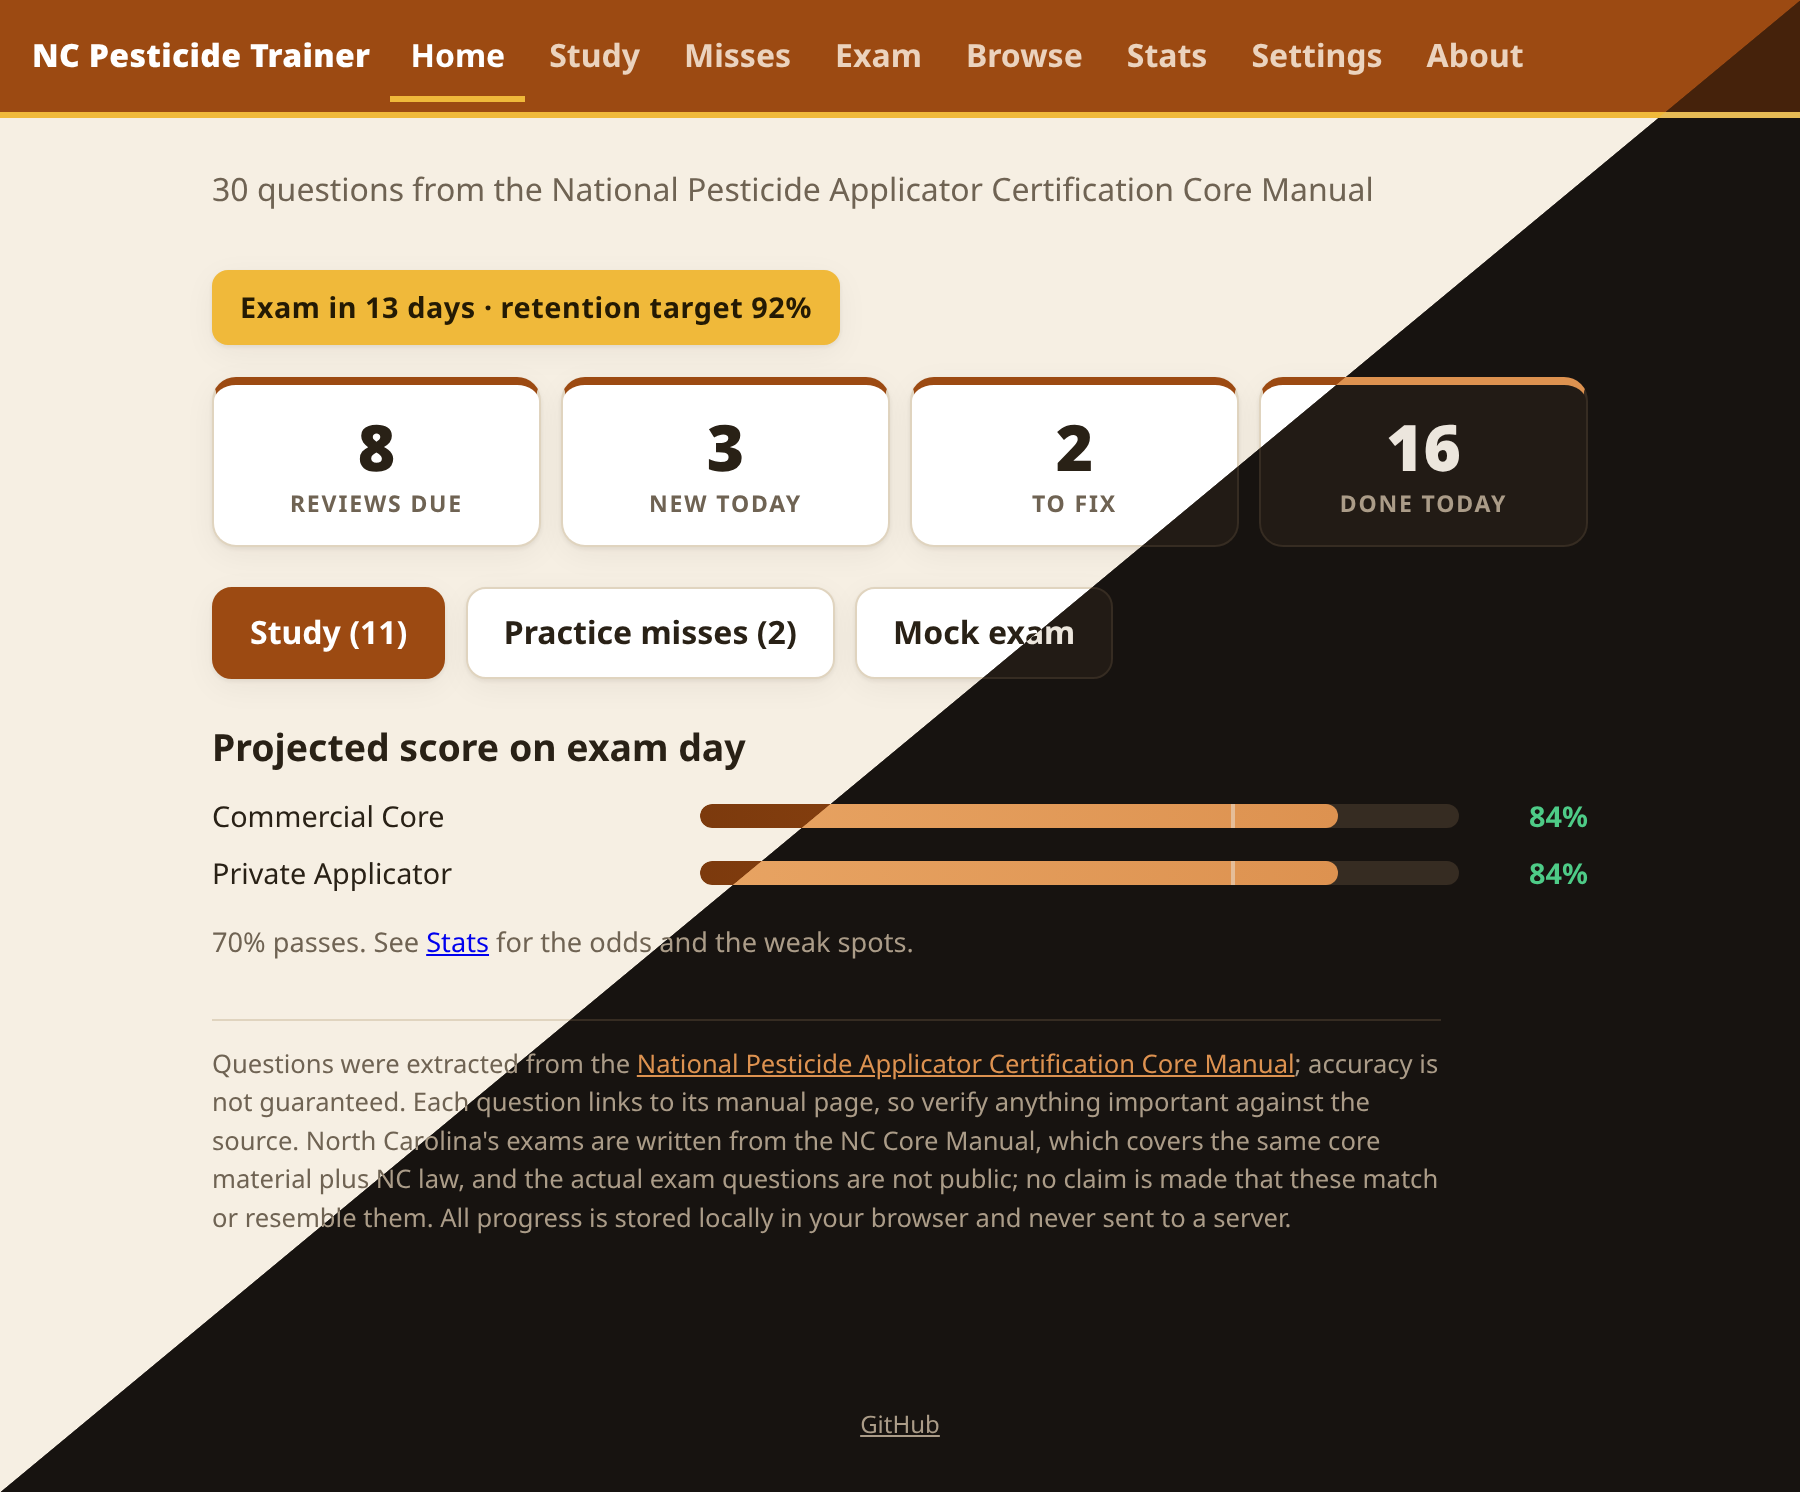
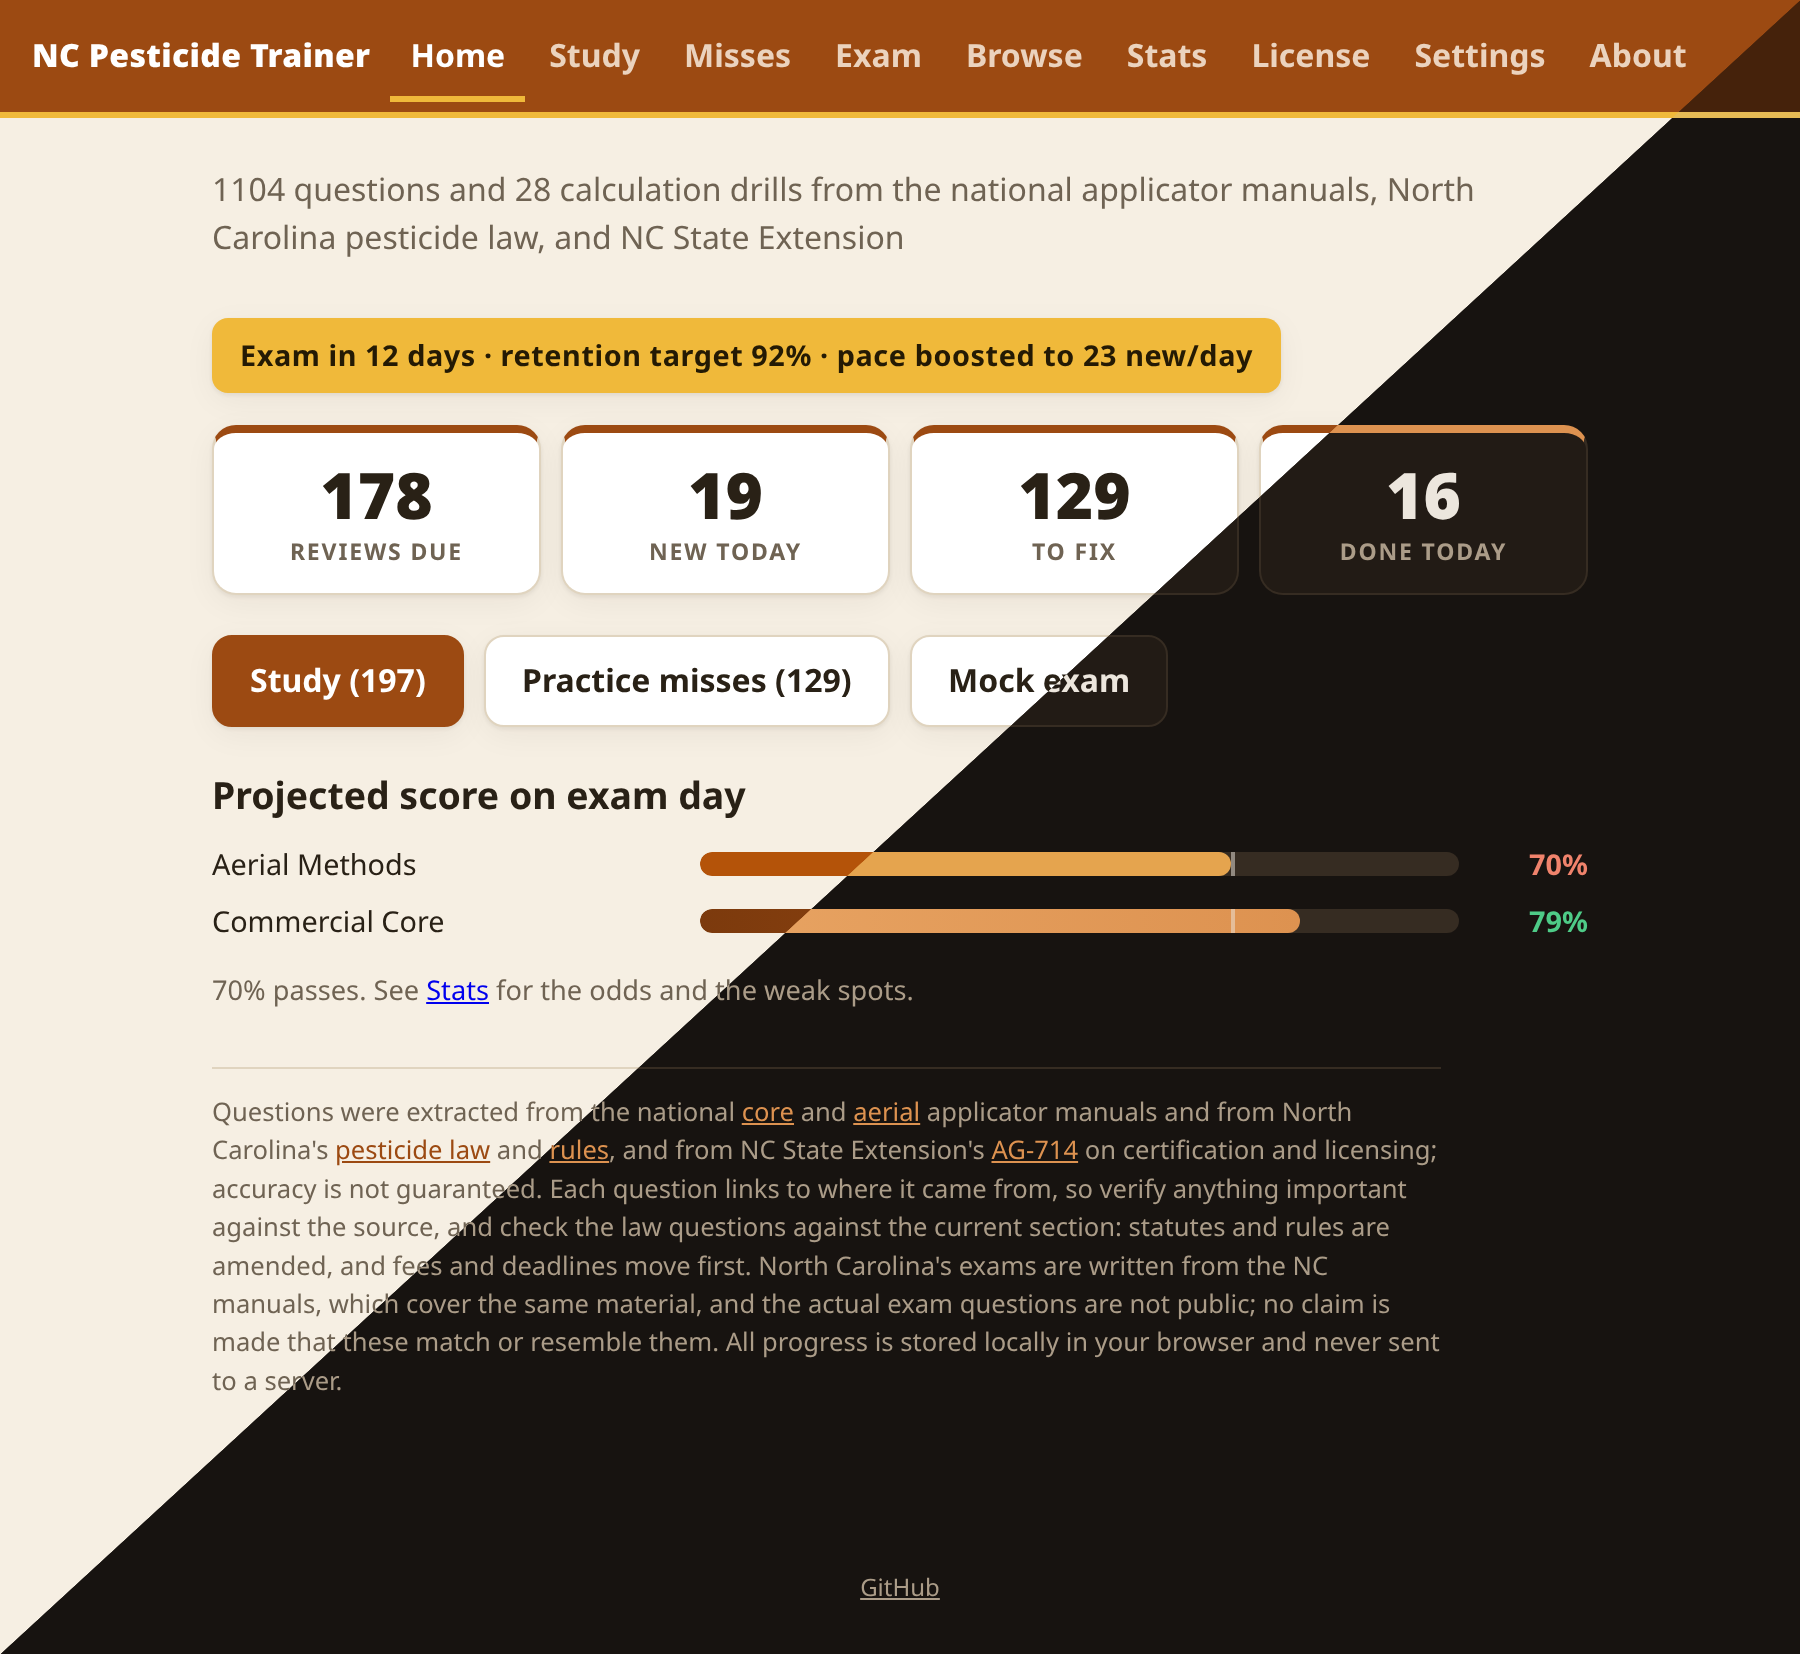
docs: shoot every screen the trainer has
Three screenshots documented an app that had grown to nine views, and the
demo profile behind them predated most of it. The profile was keyed by
chapter number, so it matched section 1 of all five sources at once and left
the rest of a 1132-question bank unseen: home projected 29% and the pace
banner read "boosted to 63 new/day", which is what an empty account looks
like rather than a studied one. Its settings still carried the `sections`
list that `tests` replaced, and its mock history recorded 30-question exams
that no longer exist.

The profile is now keyed by manual, which is how a section is identified,
and the scenario is an aerial applicator twelve days out from Commercial
Core and Aerial Methods: both national manuals in play, the law and the
rules underway, AG-714 barely started, and mocks at the lengths those exams
are actually given at. The exam date is set eleven days out rather than
twelve, because the countdown runs to the end of exam day and so reads "in
12 days" whatever time of day the shots are taken.

Six views join the three: the graded answer, a calculation drill, the mock
exam list, the bank browser, the license cards, and settings. Misses is left
out, since it renders as Study with a different tab underlined.

Two of them needed something the app does not offer as a route. What a
graded answer looks like is reached by answering rather than by navigating,
so seed.js gives it a hash of its own: #answer is #study with the first
[…]

diff --git a/docs/screenshots/seed.js b/docs/screenshots/seed.js
@@ -4,8 +4,9 @@
  * js/app.js, so the app boots into a realistic mid-study state instead of an
  * empty one. It is never part of the app or the deploy.
  *
- * The scenario is a Commercial Core attempt twelve days out: most of the
- * chapter-1 bank has been seen, with a mix of solid and shaky cards, a failed
+ * The scenario is an aerial applicator twelve days out from Commercial Core
+ * and Aerial Methods: most of the core manual has been seen and the aerial
+ * one and the law are underway, with a mix of solid and shaky cards, a failed
  * first mock and passing retakes on record. Everything is seeded, so a re-run
  * reproduces the same images.
  */
@@ -32,16 +33,28 @@
     return `${d.getFullYear()}-${String(d.getMonth() + 1).padStart(2, '0')}-${String(d.getDate()).padStart(2, '0')}`;
   };
 
-  // section -> how much of it has been seen, and the stability range in days.
-  // The bank covers chapter 1 so far; the wide stability range mixes solid
-  // cards with shaky ones, which keeps the due queue and forecast populated.
+  // manual -> how much of it has been seen, and the stability range in days.
+  // Keyed by manual and not by chapter, because a chapter number means a
+  // different chapter in each of them: "1" is Pest Management in the core
+  // manual and Laws and Regulations in the aerial one.
+  //
+  // The scenario is an aerial applicator, who sits Commercial Core and the
+  // Aerial Methods exam on top of it, so both national manuals are in play.
+  // The core manual is furthest along, the aerial one and North Carolina's
+  // law and rules are underway, and AG-714 on certification is barely
+  // started. The wide stability ranges mix solid cards with shaky ones, which
+  // keeps the due queue and the forecast populated.
   const PROFILE = {
-    1: { seen: 0.85, stab: [3, 45] },
+    default: { seen: 0.88, stab: [4, 60] },
+    aerial: { seen: 0.72, stab: [3, 40] },
+    law: { seen: 0.78, stab: [3, 35] },
+    rules: { seen: 0.62, stab: [2, 25] },
+    ncsu: { seen: 0.5, stab: [2, 20] },
   };
 
   const cards = {};
   QUESTION_BANK.forEach(q => {
-    const p = PROFILE[q.section];
+    const p = PROFILE[q.manual || 'default'];
     if (!p || rand() > p.seen) return;
     const stability = p.stab[0] + rand() * (p.stab[1] - p.stab[0]);
     const age = rand() * stability * 1.25; // a slice of the pool is overdue
@@ -74,32 +87,131 @@
     };
   }
 
-  const exam = new Date(now + 12 * DAY);
+  // The countdown runs to the end of exam day, so a date eleven days out is
+  // the one that reads "in 12 days" whatever time of day the shot is taken.
+  const exam = new Date(now + 11 * DAY);
 
   localStorage.setItem(KEY, JSON.stringify({
     cards,
     settings: {
       newPerDay: 15,
-      sections: [1],
+      tests: ['core', 'aerial'],
+      // The drill shot is the one that shows the on-screen calculator, and it
+      // is only on screen when this preference has been turned on.
+      calcOpen: true,
       examDate: dayKey(exam.getTime()),
       theme: new URLSearchParams(location.search).get('theme') === 'dark' ? 'dark' : 'light',
     },
     daily,
-    // Mocks draw from the bank, so with 30 questions authored every exam
-    // records total: 30 regardless of the real test's length.
+    // A mock is the real test's length once the bank can fill it: 100
+    // questions for Commercial Core, 50 for Aerial Methods.
     exams: [
-      { date: now - 9 * DAY, type: 'Commercial Core', total: 30, correct: 19, passed: false },
-      { date: now - 5 * DAY, type: 'Private Applicator', total: 30, correct: 24, passed: true },
-      { date: now - 2 * DAY, type: 'Commercial Core', total: 30, correct: 26, passed: true },
+      { date: now - 9 * DAY, type: 'Commercial Core', total: 100, correct: 62, passed: false },
+      { date: now - 5 * DAY, type: 'Commercial Core', total: 100, correct: 74, passed: true },
+      { date: now - 2 * DAY, type: 'Aerial Methods', total: 50, correct: 39, passed: true },
     ],
     log: [],
   }));
 
+  // Two licenses in the lookup cache, so the License tab shows its cards
+  // rather than an empty form: a pilot's own certification and the contractor
+  // they fly under, which is the case that tab is built for.
+  //
+  // The records are invented, not a real licensee's — the shot blurs the name
+  // and the license number on top of that — but every other field is shaped
+  // the way the NCDA&CS search returns it, since that shape is what the card
+  // reads. Seeding them also keeps generation offline: nothing here calls the
+  // portal, so the images do not depend on it being up.
+  const usDate = ts => {
+    const d = new Date(ts);
+    return `${d.getMonth() + 1}/${d.getDate()}/${d.getFullYear()}`;
+  };
+  const licEntry = (number, typeId, record) => ({
+    input: { number, typeId },
+    record: { number, licenseTypeId: typeId, owner: 'FDPE', status: 'Active', ...record },
+    fetchedAt: now - 2 * 60 * 60 * 1000,
+  });
+  // The cache key is private to js/license.js; this is its value.
+  localStorage.setItem('ncagr-licenses', JSON.stringify({
+    v: 1,
+    list: [
+      licEntry('99999', '027', {
+        name: 'SAMPLE PILOT (DEMO RECORD)',
+        licenseType: 'Aerial Pesticide Applicator (Pilot)',
+        county: 'WAYNE',
+        expire: usDate(now + 320 * DAY),
+        recertBy: usDate(now + 137 * DAY),
+        originalIssue: '3/14/2014',
+        // An aerial certification asks the aerial methods hour, three for the
+        // first category and one for each additional: earned here are the
+        // hour, two of the three, and none of the one.
+        creditTotals: 'P [1.0] O [2.0] G [0]',
+        courses: [
+          { name: 'Aerial Application Technology Update', date: usDate(now - 96 * DAY), credits: 'P [1.0]' },
+          { name: 'Row Crop Weed Management Field Day', date: usDate(now - 41 * DAY), credits: 'O [2.0]' },
+        ],
+      }),
+      // No categories sit on a contractor license, so its card is the one
+      // with nothing to score — and it expires inside the two months that
+      // turn the badge from green to amber.
+      licEntry('99998', '028', {
+        name: 'SAMPLE FLYING SERVICE INC (DEMO RECORD)',
+        licenseType: 'Aerial Pesticide Applicator (Contractor)',
+        county: 'WAYNE',
+        expire: usDate(now + 38 * DAY),
+        originalIssue: '5/2/2011',
+        creditTotals: '',
+        courses: [],
+      }),
+    ],
+  }));
+
+  // The name and the license number are the two fields on a card that belong
+  // to a person rather than to the app, so the documentation shot blurs them.
+  // Everything the card is worth showing — the status, the deadlines, the
+  // credits scored against AG-714 — is not personal and stays legible.
+  const blurStyle = document.createElement('style');
+  blurStyle.textContent = '.shotblur{filter:blur(7px)}';
+  document.head.appendChild(blurStyle);
+
+  function blurPersonal() {
+    document.querySelectorAll('.liccard').forEach(card => {
+      const fields = [card.querySelector('.licname')];
+      card.querySelectorAll('.licgrid dt').forEach(dt => {
+        if (dt.textContent.trim() === 'License number') fields.push(dt.nextElementSibling);
+      });
+      fields.forEach(el => { if (el) el.classList.add('shotblur'); });
+    });
+  }
+
+  // What a graded answer looks like — the explanation, the citation back to
+  // the manual, and the three interval buttons — is a screen the app reaches
+  // by answering rather than by navigating, so there is no hash for it. This
+  // gives it one: #answer is #study with the first question answered
+  // correctly. The app never sees the name; it is swapped for the real route
+  // here, before app.js boots and reads the hash.
+  const answerShot = location.hash === '#answer';
+  if (answerShot) location.hash = 'study';
+
+  // The right choice is the one the bank says it is. The rendered question is
+  // matched back to its entry by text, which holds for everything but a
+  // calculation drill, whose numbers are drawn per session; those are what
+  // #drill is for, so an unmatched question is simply left unanswered.
+  function answerCorrectly() {
+    const asked = document.querySelector('.qtext');
+    const q = asked && QUESTION_BANK.find(x => x.question === asked.textContent);
+    const choice = q && document.querySelector(`.choice[data-i="${q.answer}"]`);
+    if (choice) choice.click();
+  }
+
   // generate.sh reads the rendered page height back out of the title to size
   // the capture window; the title is never visible in a screenshot. Measure
   // the body, not the document: the document element is stretched to the
-  // viewport, which would pad every short view with empty background.
+  // viewport, which would pad every short view with empty background, and
+  // measure after any click above, which is what grew the page.
   addEventListener('load', () => {
+    if (answerShot) answerCorrectly();
+    blurPersonal();
     document.title = 'shot ' + Math.ceil(document.body.getBoundingClientRect().height);
   });
 })();

diff --git a/docs/screenshots/README.md b/docs/screenshots/README.md
@@ -4,14 +4,19 @@ Each image is split diagonally to show the light and dark themes, which follow t
 browser's color scheme preference.
 
 They are generated, not captured by hand. `generate.sh` feeds the app a seeded demo
-profile (`seed.js`: a Commercial Core attempt twelve days out, with a failed first
-mock and passing retakes on record), shoots each view once per theme in headless
-Chrome, and composites the two across the diagonal. It needs Chrome or Chromium and
-ImageMagick:
+profile (`seed.js`: an aerial applicator twelve days out from Commercial Core and
+Aerial Methods, with a failed first mock and passing retakes on record), shoots each
+view once per theme in headless Chrome, and composites the two across the diagonal.
+It needs Chrome or Chromium and ImageMagick:
 
 ```
-./docs/screenshots/generate.sh home study stats
+./docs/screenshots/generate.sh home study answer drill exam browse stats license settings
 ```
+
+Each name is the view's own URL hash, so the list is also the app's route list. The
+one exception is `answer`, which is not a route: `seed.js` turns it into `#study`
+with the first question answered, because what a graded answer looks like is a
+screen the app reaches by answering rather than by navigating.
 
 ## Home
 
@@ -23,13 +28,65 @@ test date is set, and the projected score for each test being studied for.
 ## Study
 
 A spaced repetition session. The header shows the manual chapter the question came
-from, and every question links to its page in the manual PDF.
+from.
 
 <img src="study.png" width="700" alt="Study session showing a multiple-choice question with a progress bar and the manual chapter in the header">
 
+## Answering
+
+Every question is explained on the spot and cites the page it came from, and a
+correct answer is rated Hard, Good, or Easy — the interval each rating would set is
+on the button. Undo takes a stray tap back.
+
+<img src="answer.png" width="700" alt="A correctly answered question showing the explanation, a link to the manual page it came from, and Hard, Good, and Easy buttons with the interval each would schedule">
+
+## Calculation drills
+
+Calibration and dosage questions draw fresh numbers every time, so the arithmetic is
+practised rather than the answer memorized. `#drill` runs them on demand, and the
+on-screen calculator is the nonprogrammable kind the exam allows.
+
+<img src="drill.png" width="700" alt="A calibration word problem with freshly drawn numbers and the on-screen calculator open beneath the choices">
+
+## Mock exam
+
+The exams North Carolina actually gives, at their real lengths. Exams with no
+questions written yet are listed but unselectable, so the gap is visible.
+
+<img src="exam.png" width="700" alt="Mock exam list showing Commercial Core at 100 questions and Aerial Methods at 50, above category exams marked not written yet">
+
+## Browse
+
+The whole bank grouped by the exams a chapter belongs to, with each group's studied
+count and accuracy; open a chapter for its questions, schedules, and answers.
+
+<img src="browse.png" width="700" alt="Question bank browser listing chapter groups with studied counts and accuracy">
+
 ## Stats
 
-Mastery tiles, the exam readiness projection with the odds of passing, a 7-day due
-forecast, per-chapter progress and accuracy, and exam history.
+Mastery tiles, the exam readiness projection with the odds of passing and the weak
+spots behind it, the last 30 days of reviews, a 7-day due forecast, per-chapter
+progress and accuracy, and exam history.
 
-<img src="stats.png" width="700" alt="Stats page with mastery tiles, an exam readiness table, a 7-day due forecast, per-chapter accuracy, and exam history">
+<img src="stats.png" width="700" alt="Stats page with mastery tiles, an exam readiness table, a 30-day review histogram, a 7-day due forecast, per-chapter accuracy, and exam history">
+
+## License
+
+Looks a North Carolina pesticide license up in the Department of Agriculture's
+public search, keeps as many as you hold — here a pilot's own certification and the
+contractor they fly under — and scores each one's recertification credits against
+what AG-714 says its categories owe. The only screen that reaches a server.
+
+The two records are invented rather than a real licensee's, and the name and license
+number are blurred on top of that; everything the card is worth showing is not
+personal and stays legible.
+
+<img src="license.png" width="700" alt="Two license cards with the name and license number blurred, showing status, expiration and recertification dates, and progress bars for each recertification category">
+
+## Settings
+
+Daily pace, exam date, theme, and which tests are being studied for — each listed
+with the chapters it covers and how many questions back it. Export and import move
+progress between devices.
+
+<img src="settings.png" width="700" alt="Settings page with new cards per day, exam date, theme, the list of tests to study for, and export and import buttons">

diff --git a/README.md b/README.md
@@ -112,7 +112,11 @@ and import for backups or for moving between devices.
   <img src="docs/screenshots/home.png" width="500" alt="Home screen with due review, new card, and miss counts, an exam countdown banner, and a projected score for each exam">
 </p>
 <p align="center">
-  <a href="docs/screenshots/README.md">More screenshots</a>
+  <img src="docs/screenshots/answer.png" width="500" alt="A correctly answered question showing the explanation, a link to the manual page it came from, and Hard, Good, and Easy buttons with the interval each would schedule">
+</p>
+<p align="center">
+  <a href="docs/screenshots/README.md">More screenshots</a>: the study queue,
+  calculation drills, mock exams, the bank browser, stats, license lookup, and settings
 </p>
 
 ## Modes
